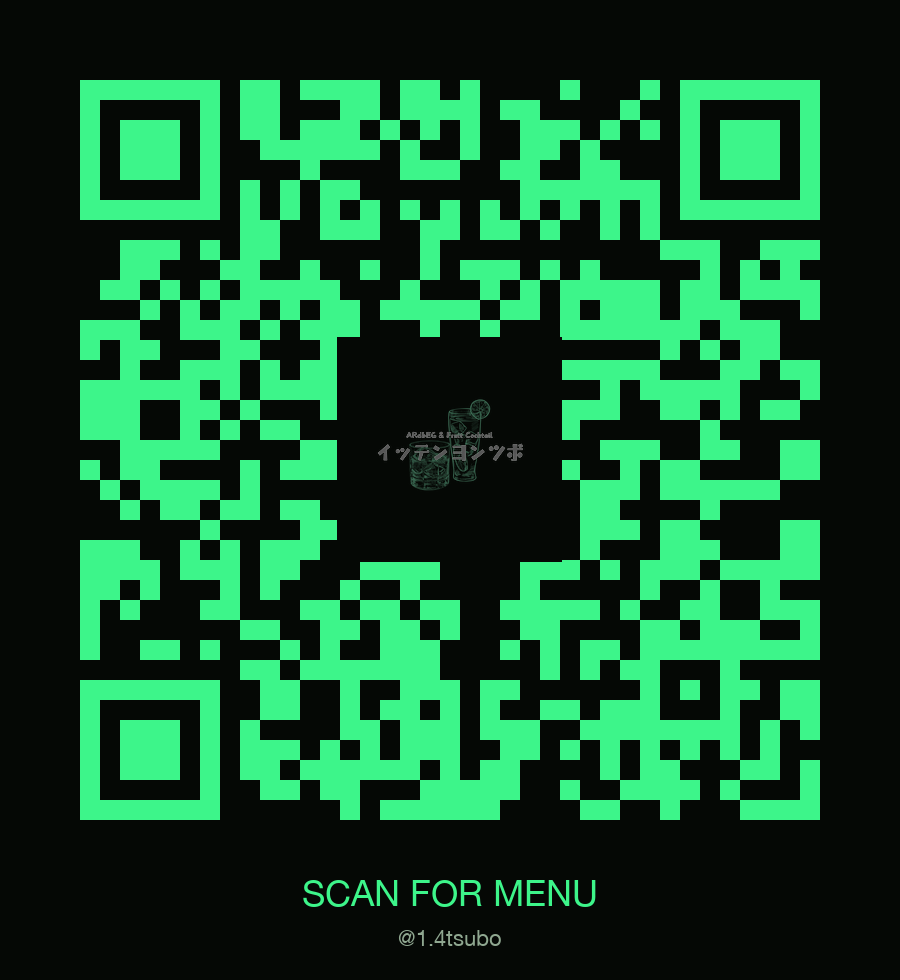
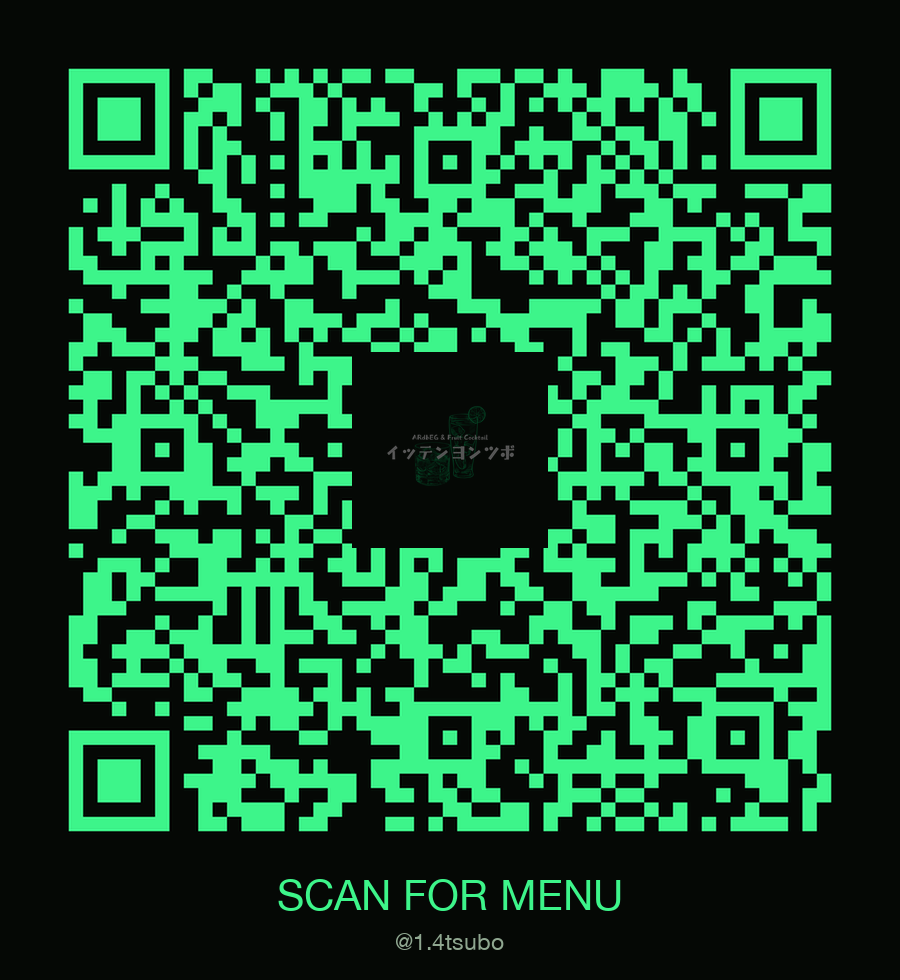
QRコード再生成: utm付きURL + 生成スクリプト追加
- generate_qr.py: ブランドカラー（黒+アードベッググリーン）デザインのQR生成スクリプト
- pdf/14tsubo_qr.png, _b5.png: utm_source=qr&utm_medium=print&utm_campaign=menu 付与で再生成

GA4でQR経由のアクセスを「qr/print」流入として識別可能になる。

diff --git a/generate_qr.py b/generate_qr.py
@@ -1,0 +1,133 @@
+"""デザイン入りQRコード生成スクリプト。
+
+イッテンヨンツボのメニューサイト用に、ブランドカラー（黒背景＋アードベッググリーン）の
+QRコードを生成する。中央にロゴ、下部に「SCAN FOR MENU / @1.4tsubo」キャプションを配置。
+
+使い方:
+    python3 generate_qr.py
+
+サイズや出力先、URLは MAIN 内のリストで指定する。
+"""
+from pathlib import Path
+
+import qrcode
+from PIL import Image, ImageDraw, ImageFont
+from qrcode.constants import ERROR_CORRECT_H
+
+# --- ブランドカラー（index.html の CSS変数から） ---
+BG = (5, 8, 5)            # --bg #050805
+NEON = (61, 245, 138)     # --neon #3df58a
+INK_DIM = (143, 167, 144) # --ink-dim #8fa790
+
+LOGO_PATH = Path(__file__).parent / "assets" / "logo" / "logo.png"
+
+# ベースURL（QR/Instagramそれぞれにutmを付与）
+BASE_URL = "https://balenciga.github.io/14tsubo-menu/"
+
+
+def make_qr_image(url: str, size_px: int) -> Image.Image:
+    """指定URL/サイズのQRコード画像（背景透過、QRが緑）を返す。"""
+    qr = qrcode.QRCode(
+        version=None,
+        error_correction=ERROR_CORRECT_H,  # ロゴ重畳のため高誤り訂正
+        box_size=10,
+        border=2,
+    )
+    qr.add_data(url)
+    qr.make(fit=True)
+    img = qr.make_image(fill_color=NEON, back_color=BG).convert("RGBA")
+    img = img.resize((size_px, size_px), Image.LANCZOS)
+    return img
+
+
+def overlay_logo(qr_img: Image.Image, logo_ratio: float = 0.22) -> Image.Image:
+    """QR画像の中央にロゴを重ねる。"""
+    if not LOGO_PATH.exists():
+        return qr_img
+    logo = Image.open(LOGO_PATH).convert("RGBA")
+    w = int(qr_img.size[0] * logo_ratio)
+    aspect = logo.size[1] / logo.size[0]
+    logo = logo.resize((w, int(w * aspect)), Image.LANCZOS)
+
+    # ロゴ背後に黒い四角を敷いてQRが透けないようにする
+    pad = 8
+    bg_box = Image.new("RGBA", (logo.size[0] + pad * 2, logo.size[1] + pad * 2), BG + (255,))
+    cx = (qr_img.size[0] - bg_box.size[0]) // 2
+    cy = (qr_img.size[1] - bg_box.size[1]) // 2
+    qr_img.alpha_composite(bg_box, (cx, cy))
+    qr_img.alpha_composite(logo, (cx + pad, cy + pad))
+    return qr_img
+
+
+def compose_card(qr_img: Image.Image, canvas_size: tuple[int, int], qr_top: int, caption_y: int, caption_size: int) -> Image.Image:
+    """黒背景キャンバスにQRとキャプションを配置した最終画像を返す。"""
+    canvas = Image.new("RGBA", canvas_size, BG + (255,))
+    qr_x = (canvas.size[0] - qr_img.size[0]) // 2
+    canvas.alpha_composite(qr_img, (qr_x, qr_top))
+
+    draw = ImageDraw.Draw(canvas)
+    try:
+        # システムフォント。Helvetica系で揃える
+        font_main = ImageFont.truetype("/System/Library/Fonts/HelveticaNeue.ttc", caption_size)
+        font_sub = ImageFont.truetype("/System/Library/Fonts/HelveticaNeue.ttc", int(caption_size * 0.55))
+    except OSError:
+        font_main = ImageFont.load_default()
+        font_sub = ImageFont.load_default()
+
+    main_text = "SCAN FOR MENU"
+    sub_text = "@1.4tsubo"
+
+    bbox = draw.textbbox((0, 0), main_text, font=font_main)
+    tx = (canvas.size[0] - (bbox[2] - bbox[0])) // 2
+    draw.text((tx, caption_y), main_text, fill=NEON, font=font_main)
+
+    sub_y = caption_y + int(caption_size * 1.4)
+    bbox2 = draw.textbbox((0, 0), sub_text, font=font_sub)
+    tx2 = (canvas.size[0] - (bbox2[2] - bbox2[0])) // 2
+    draw.text((tx2, sub_y), sub_text, fill=INK_DIM, font=font_sub)
+
+    return canvas
+
+
+def build(url: str, out_path: Path, canvas_size: tuple[int, int], qr_size: int, qr_top: int, caption_y: int, caption_size: int) -> None:
+    """1枚のQR画像を生成して保存する。"""
+    qr_img = make_qr_image(url, qr_size)
+    qr_img = overlay_logo(qr_img)
+    card = compose_card(qr_img, canvas_size, qr_top, caption_y, caption_size)
+    out_path.parent.mkdir(parents=True, exist_ok=True)
+    card.convert("RGB").save(out_path, "PNG", optimize=True)
+    print(f"✓ {out_path.name}: {url}")
+
+
+def main() -> None:
+    """QRサイズ × URL の組み合わせ分だけ生成する。"""
+    out_dir = Path(__file__).parent / "pdf"
+
+    # utm付きURL（GA4で流入元を区別するため）
+    qr_url = f"{BASE_URL}?utm_source=qr&utm_medium=print&utm_campaign=menu"
+
+    # 小サイズ（カード/ステッカー用、900x980）
+    build(
+        qr_url,
+        out_dir / "14tsubo_qr.png",
+        canvas_size=(900, 980),
+        qr_size=820,
+        qr_top=40,
+        caption_y=870,
+        caption_size=42,
+    )
+
+    # B5サイズ（卓上ポップ印刷用、2150x3035）
+    build(
+        qr_url,
+        out_dir / "14tsubo_qr_b5.png",
+        canvas_size=(2150, 3035),
+        qr_size=1100,
+        qr_top=900,
+        caption_y=2100,
+        caption_size=80,
+    )
+
+
+if __name__ == "__main__":
+    main()
